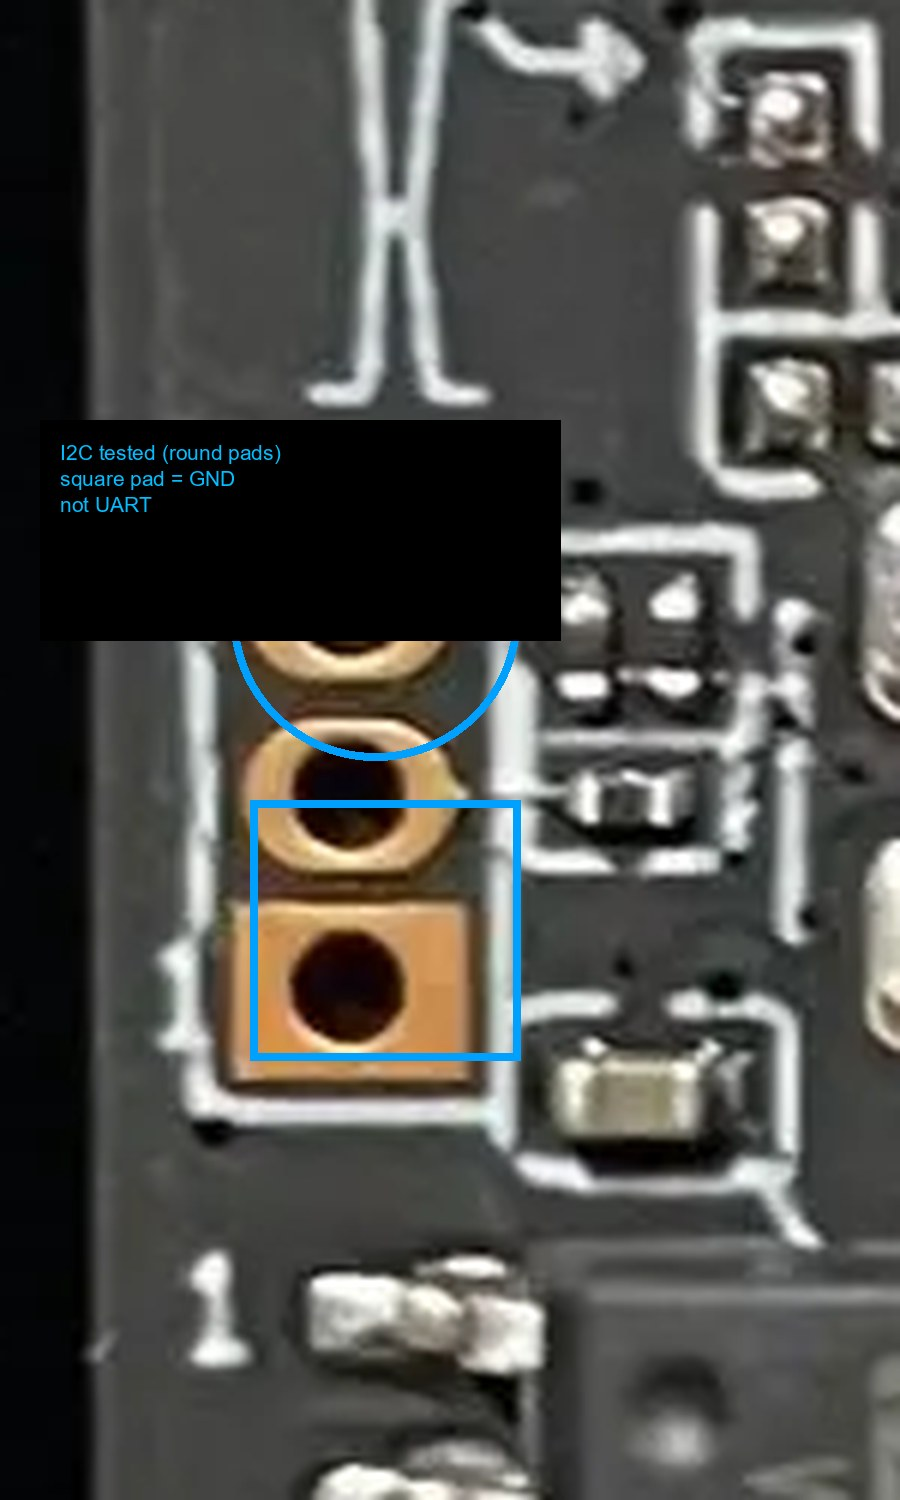
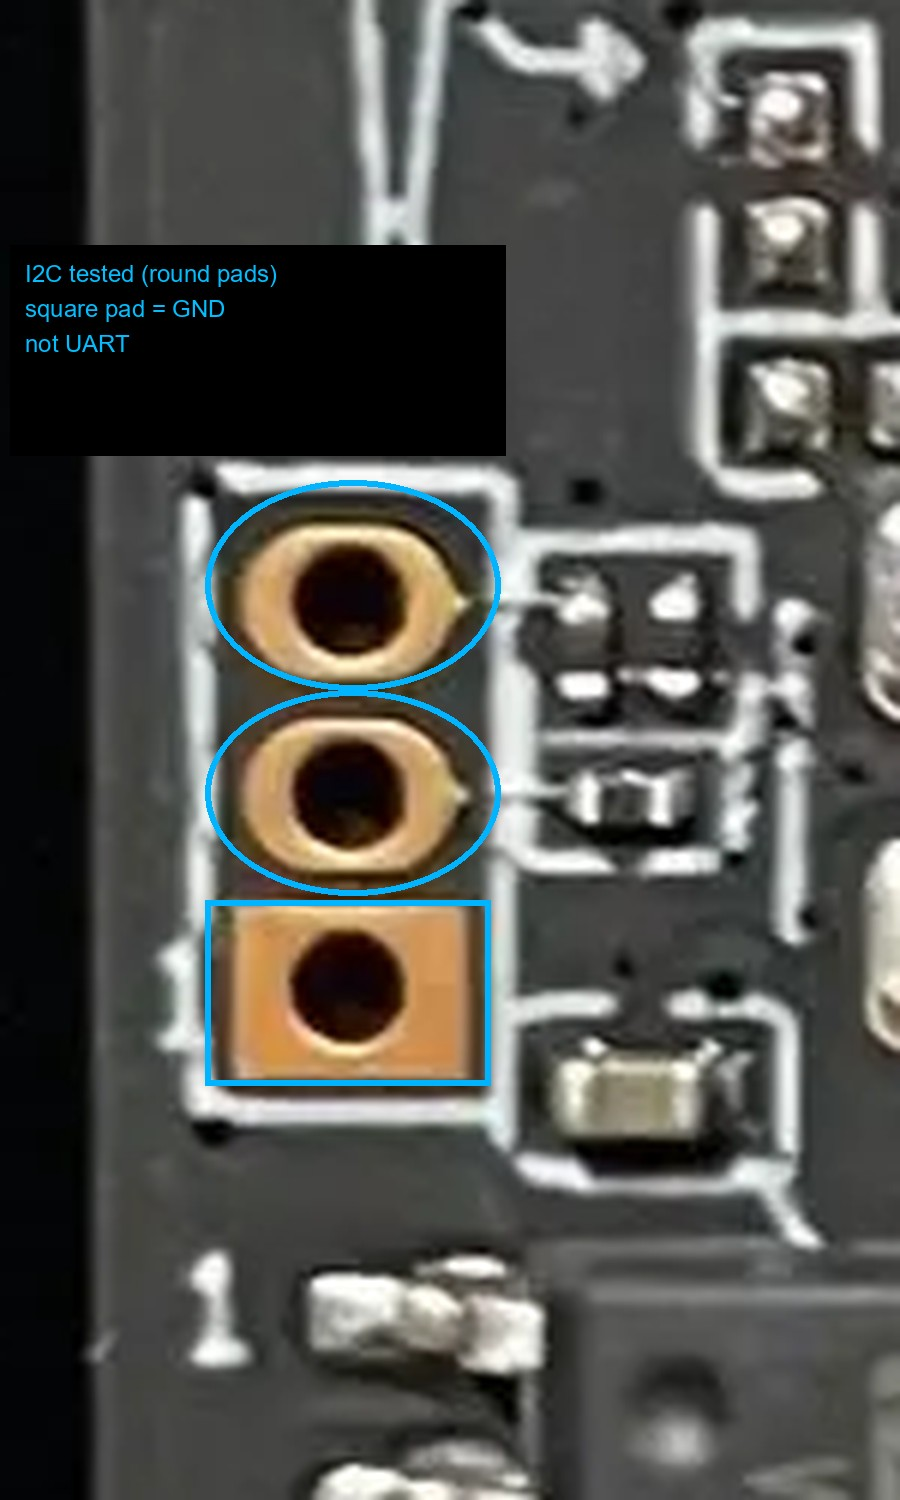
docs(photos): annotate speaker pads precisely, remove resistor highlight and pad overlaps

Changed region(s): [[0.0311, 0.1533, 0.6222, 0.736], [0.2178, 0.4907, 0.2489, 0.552]]

diff --git a/docs/hardware-photos.md b/docs/hardware-photos.md
@@ -16,8 +16,8 @@ photos are used.
 
 > **UART was not found on this board revision.** The owner physically probed the points below:
 > there is **no UART test pad** usable as a console. The three-pad group is I2C (square pad =
-> GND), the red pair is the speaker/unknown, and the 2×3 cluster is a set of small resistors,
-> not a test-pad grid. The console itself is known from the flash dump to be **ttyAMA0,
+> GND), **both red pads are the speaker connection**, and the 2×3 cluster is a set of small
+> resistors, not a test-pad grid. The console itself is known from the flash dump to be **ttyAMA0,
 > 115200 8N1** (U-Boot 2014.04, `Password:` prompt), but no physical access point was
 > identified. Use the SPI clip ([backup.md](backup.md)); the UART hunt is closed for this board.
 
@@ -70,22 +70,17 @@ The owner tested this group. It is **I2C, not UART**:
 - the two **round pads are the I2C lines**;
 - it is useful only as a GND/3V3 reference for a meter.
 
-## Speaker / test area — SPK and 2×3 resistors
+## Speaker pads — both linked to SPK
 
-![SPK connector and probed points, annotated](images/ipc-rm1-spk-probed-points-annotated.jpg)
+![Speaker pads, annotated](images/ipc-rm1-spk-probed-points-annotated.jpg)
 
-The red group and the yellow cluster are **not UART**:
+The two filled pads right of `1 SPK` are the **speaker connections**. **Both pads are linked to
+the speaker**, not to a UART: there is no RX/TX header here.
 
-- **red pair, right of `1 SPK`**:
-  - the **bottom pin is linked to the speaker**;
-  - the **top pin is not GND**; its function is still unknown;
-  - this pair is not a UART RX/TX header.
-- **yellow 2×3 cluster**: these are **small resistors** on the PCB, not test pads and not a
-  debug/programming grid.
-
-There is no `UART`/`DBG`/`TX`/`RX` silkscreen anywhere on the board, and the owner found no
-remaining UART test pad after probing. Consequently the physical UART route is **excluded** on
-this revision; the recovery path is the SPI clip.
+The nearby 2×3 parts are **resistors**. They were initially mistaken for test pads, but they are
+**not test pads and not UART**. There is no `UART`/`DBG`/`TX`/`RX` silkscreen anywhere on the
+board, and the owner found no remaining UART test pad after probing. Consequently the physical
+UART route is **excluded** on this revision; the recovery path is the SPI clip.
 
 ## Speaker connector area — close-up
 
@@ -124,7 +119,7 @@ published crops are ≤ 1600 px wide.
 | `images/ipc-rm1-board-soc-side.jpg` | `uart/back_candidates.png` | full board, SoC side, turned upright (1510×2070) |
 | `images/ipc-rm1-soc-xm535d1.jpg` | `uart/n_soc_area.png` | XM535D1 package marking (1080×1080) |
 | `images/ipc-rm1-left-i2c-annotated.jpg` | `uart/n_left_3pad.png` | left 3-pad group: square GND, round pads I2C (900×1500) |
-| `images/ipc-rm1-spk-probed-points-annotated.jpg` | `uart/n_bottom_left.png` | SPK pad and 2×3 resistors, annotated (930×900) |
+| `images/ipc-rm1-spk-probed-points-annotated.jpg` | `uart/n_bottom_left.png` | speaker pads, annotated (930×900) |
 | `images/ipc-rm1-spk-probed-points.jpg` | `uart/n_bottom_left.png` | same area, unannotated (930×900) |
 
 Total image payload: ~1.4 MB.
